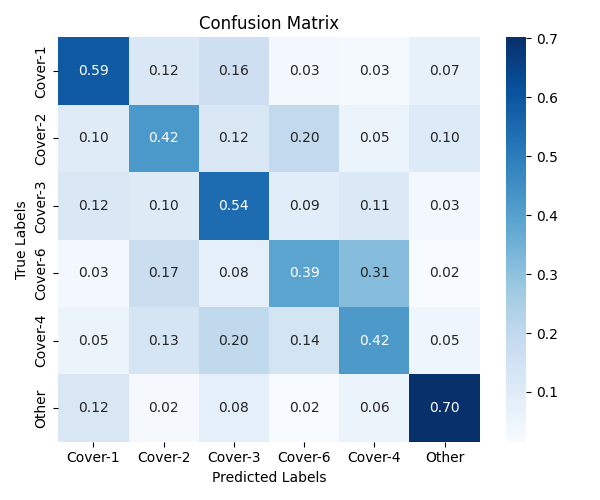
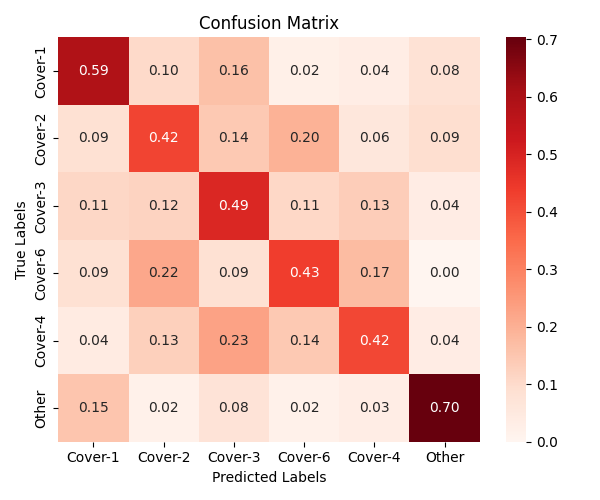
created more visualizations

diff --git a/random_tree.py b/random_tree.py
@@ -10,7 +10,7 @@ import numpy as np
 import seaborn as sns
 from sklearn.metrics import confusion_matrix
 
-def RandomForest(x, y):
+def RandomForest(x, y, dataframe):
 
     train_x, test_x, train_y, test_y = train_test_split(x, y, test_size=0.2, random_state=42)
 
@@ -22,12 +22,19 @@ def RandomForest(x, y):
     print(f'Random Forest Accuracy: {accuracy_score(test_y, y_pred_rf)*100:.2f}%')
     print(classification_report(test_y, y_pred_rf))
 
+
+
+    # DIAGRAMS
+    ######################################################################################################
+    classes = ['Cover-1', 'Cover-2', 'Cover-3', 'Cover-6', 'Cover-4', 'Other']
+    cardinals_red = '#972440'
+
     # FEATURE IMPORTANCE
     feature_importance = rf.feature_importances_
     sorted_idx = np.argsort(feature_importance)[::-1]
     features = np.array(train_x.columns)[sorted_idx]
     plt.figure(figsize=(10, 5))
-    plt.barh(features[:10], feature_importance[sorted_idx][:10])
+    plt.barh(features[:10], feature_importance[sorted_idx][:10], color=cardinals_red)
     plt.xlabel('Feature Importance Score')
     plt.ylabel('Features')
     plt.title('Top 10 Most Important Features for Defensive Coverage Prediction')
@@ -46,15 +53,51 @@ def RandomForest(x, y):
 
     # CONFUSION MATRIX
     cm = confusion_matrix(y_pred_rf, test_y)
-    cm = cm.astype('float') / cm.sum(axis=1)[:, np.newaxis]  # Normalize by row (true labels)
-    classes = ['Cover-1', 'Cover-2', 'Cover-3', 'Cover-6', 'Cover-4', 'Other']
+    cm = cm.astype('float') / cm.sum(axis=1)[:, np.newaxis]  # Normalize by row (true labels)    
     plt.figure(figsize=(6, 5))
-    sns.heatmap(cm, annot=True, fmt='.2f', cmap='Blues', xticklabels=classes, yticklabels=classes)
+    sns.heatmap(cm, annot=True, fmt='.2f', cmap='Reds', xticklabels=classes, yticklabels=classes)
     plt.xlabel('Predicted Labels')
     plt.ylabel('True Labels')
     plt.title('Confusion Matrix')
     plt.tight_layout()
     plt.savefig('diagrams/rf_confusion_matrix.png')
+
+
+
+    # dataframe_temp = dataframe[dataframe['down'] != 4.0] # Remove 'Other' coverage class and 4th-Down plays
+    coverage_dist = dataframe.groupby(['down', 'target_y']).size().unstack()
+    coverage_dist = coverage_dist.div(coverage_dist.sum(axis=1), axis=0) # Normalize
+    fig, axes = plt.subplots(2, 2, figsize=(12, 10))
+    downs = [1, 2, 3, 4]
+    suffix = ['st', 'nd', 'rd', 'th']
+    colors = ['#fc7060', '#db44d4', '#f0872b', '#7dcc7f', '#ffe046', '#1a76bc']
+    
+    for i, down in enumerate(downs):
+        ax = axes[i//2, i%2]  # Calculate position for a 2x2 grid
+        ax.pie(coverage_dist.loc[down], labels=classes, colors=colors, autopct='%1.1f%%', startangle=90)
+        ax.set_title(f'Coverage Distribution - {down}{suffix[i]}-Down')
+
+    # Display the plot
+    plt.tight_layout()
+    plt.savefig('diagrams/coverage_distribution_pie.png')
+
+    # coverage_dist.plot(kind='bar', stacked=True, figsize=(10, 6))
+    # plt.title('Distribution of Coverage Types Across Downs')
+    # plt.xlabel('Down')
+    # plt.ylabel('Frequency')
+    # plt.legend([classes[int(i)] for i in range(len(classes))], title='Coverage Type')
+    # plt.savefig('diagrams/coverage_distribution.png')
+
+
+
+    # Create a subset of features relevant to coverage prediction
+    dataframe_temp = dataframe[dataframe['target_y'] != 5.0] # Remove 'Other' coverage class
+    relevant_features = dataframe_temp[['deepest_safety_depth', 'next_deepest_safety_depth', 'target_y']]
+    sns.pairplot(relevant_features, hue='target_y', palette='Set1')
+    plt.title('Pairplot of Key Features')
+    plt.savefig('diagrams/key_features_pairwise.png')
+
+
 
 
     param_grid = {

diff --git a/main.py b/main.py
@@ -49,7 +49,7 @@ def main():
     game_state = ['offensive_alignment', 'quarter', 'down', 'yards_to_go', 'possessionTeamScoreDiff']
     
     # BEST RESULT
-    data = data.drop(columns=(x_coord))
+    # data = data.drop(columns=(x_coord))
 
     # data = data.drop(columns=['man_zone'])
 
@@ -63,7 +63,7 @@ def main():
     majority_class_count = y_distribution.max()
     print(f'BASELINE ACCURACY: {(majority_class_count / y.shape[0])*100:.2f}%')
 
-    rt = random_tree.RandomForest(x, y)
+    rt = random_tree.RandomForest(x, y, data)
 
 
 
